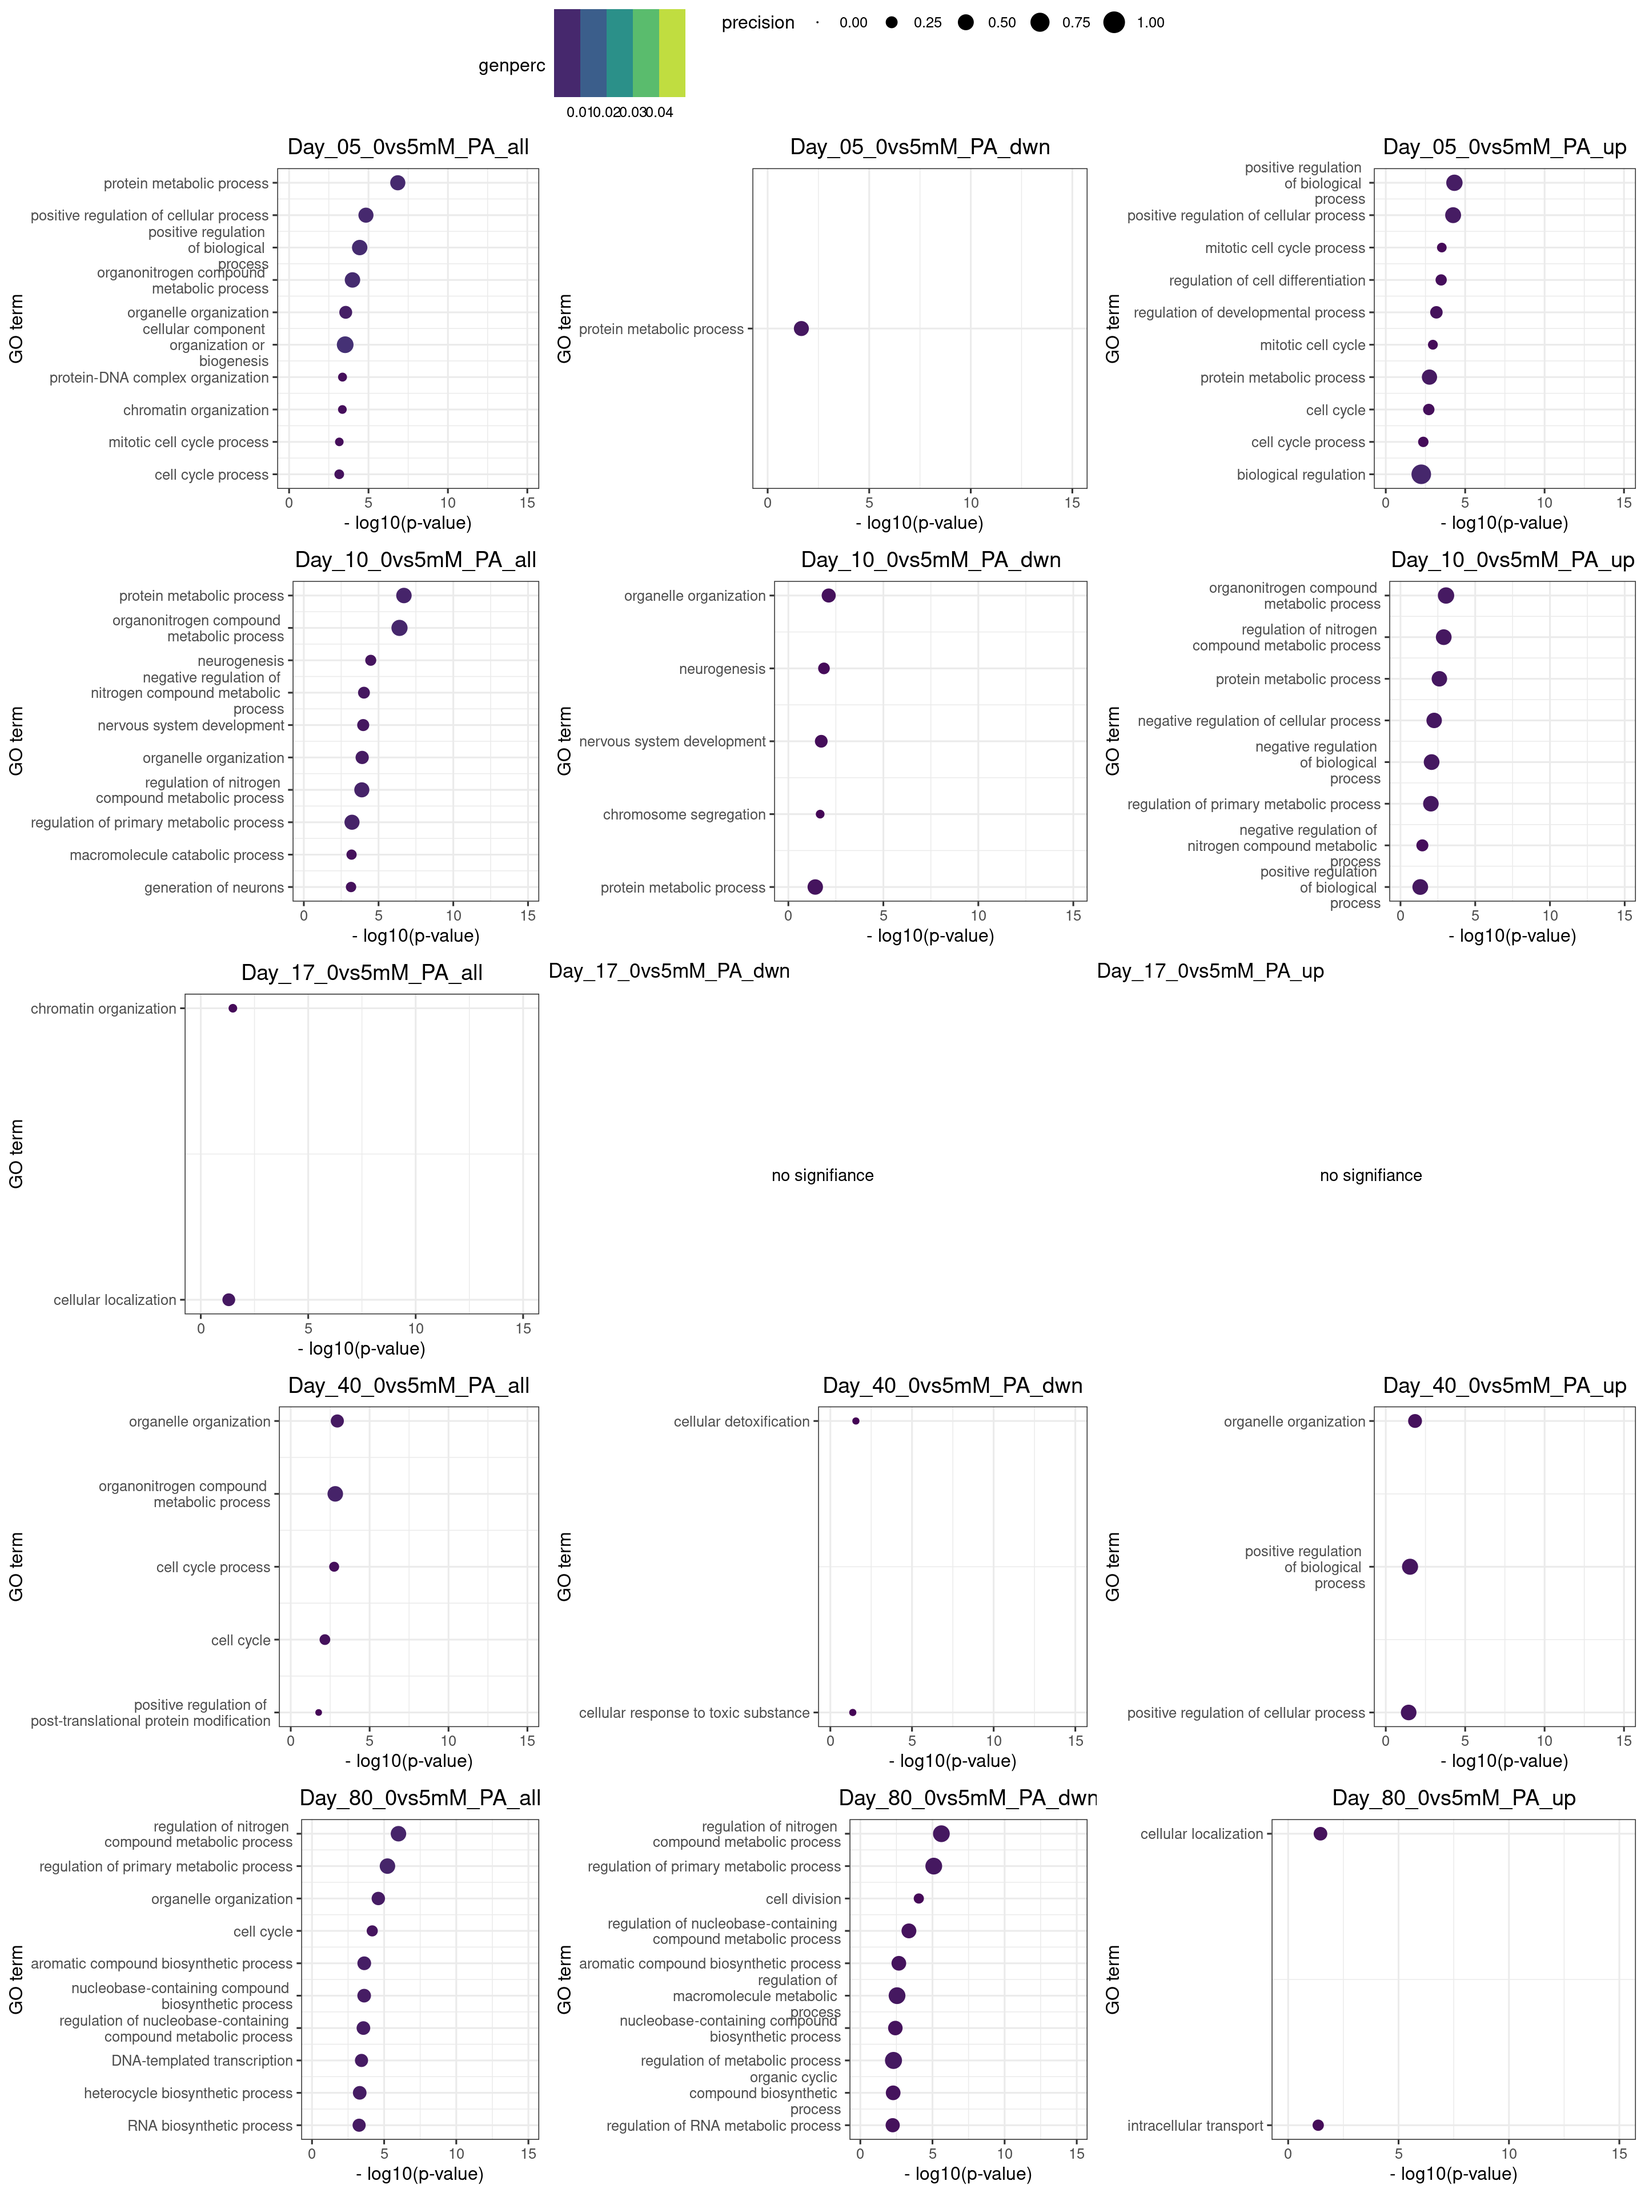
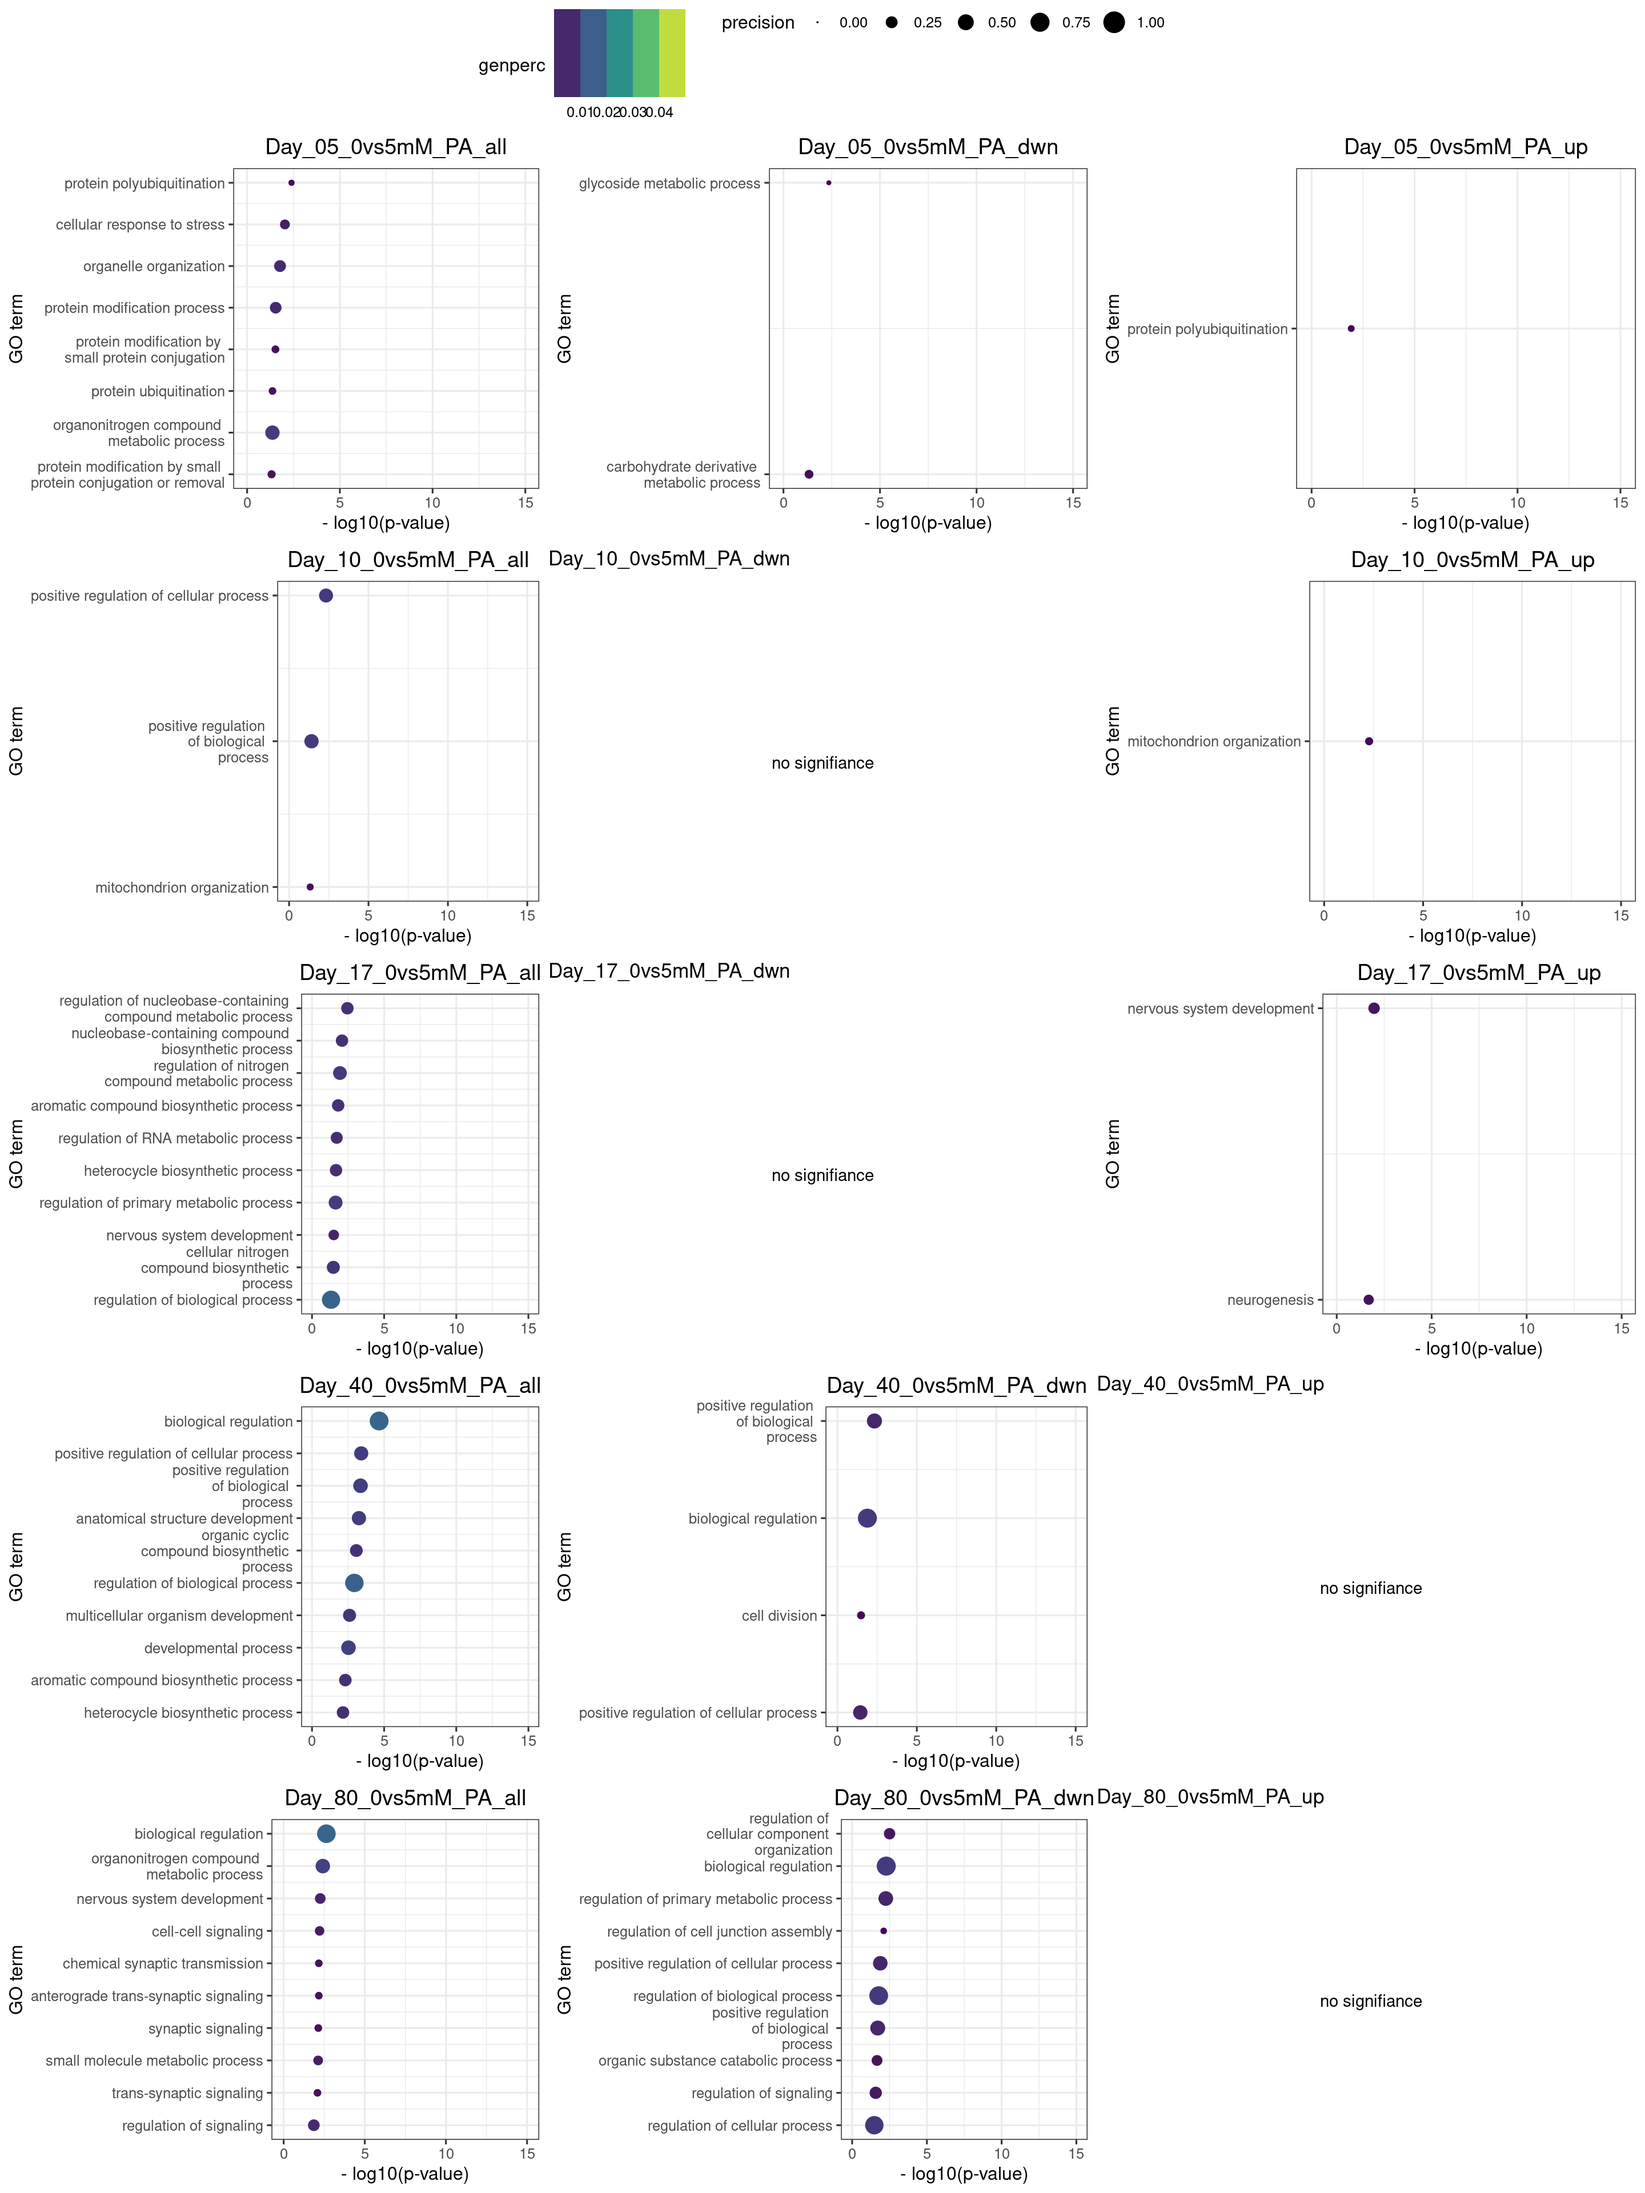
Build site.

diff --git a/docs/06_DEX_Bulk.html b/docs/06_DEX_Bulk.html
@@ -385,7 +385,7 @@ class="glyphicon glyphicon-ok text-success" aria-hidden="true"></span>
 <div class="tab-content">
 <div id="summary" class="tab-pane fade in active">
 <p>
-<strong>Last updated:</strong> 2024-01-12
+<strong>Last updated:</strong> 2024-01-13
 </p>
 <p>
 <strong>Checks:</strong> <span
@@ -516,15 +516,15 @@ project makes it easier to run your code on other machines.</p>
 <div class="panel panel-default">
 <div class="panel-heading">
 <p class="panel-title">
-<a data-toggle="collapse" data-parent="#workflowr-checks" href="#strongRepositoryversionstrongahrefhttpsgithubcomKJPMolgenLabscRNAPAQPRTtreef7ee227768eadf71185ea14617a3ddf4ca392ee0targetblankf7ee227a">
+<a data-toggle="collapse" data-parent="#workflowr-checks" href="#strongRepositoryversionstrongahrefhttpsgithubcomKJPMolgenLabscRNAPAQPRTtree5827dff088cf16cfc6208ffc470f6a60e4cb15ectargetblank5827dffa">
 <span class="glyphicon glyphicon-ok text-success"
 aria-hidden="true"></span> <strong>Repository version:</strong>
-<a href="https://github.com/KJPMolgenLab/scRNA_PA_QPRT/tree/f7ee227768eadf71185ea14617a3ddf4ca392ee0" target="_blank">f7ee227</a>
+<a href="https://github.com/KJPMolgenLab/scRNA_PA_QPRT/tree/5827dff088cf16cfc6208ffc470f6a60e4cb15ec" target="_blank">5827dff</a>
 </a>
 </p>
 </div>
 <div
[2 lines of base64/hex data omitted]
 class="panel-collapse collapse">
 <div class="panel-body">
 <p>
@@ -534,7 +534,7 @@ reproducibility.
 </p>
 <p>
 The results in this page were generated with repository version
-<a href="https://github.com/KJPMolgenLab/scRNA_PA_QPRT/tree/f7ee227768eadf71185ea14617a3ddf4ca392ee0" target="_blank">f7ee227</a>.
+<a href="https://github.com/KJPMolgenLab/scRNA_PA_QPRT/tree/5827dff088cf16cfc6208ffc470f6a60e4cb15ec" target="_blank">5827dff</a>.
 See the <em>Past versions</em> tab to see a history of the changes made
 to the R Markdown and HTML files.
 </p>
@@ -553,7 +553,6 @@ Ignored files:
     Ignored:    .Rprofile
     Ignored:    .Rproj.user/
     Ignored:    output/05_Bulk_Preprocessing/
-    Ignored:    output/07_Bulk_Deconv/
 
 Untracked files:
     Untracked:  .bashrc
@@ -569,8 +568,9 @@ Untracked files:
     Untracked:  data/QC_dataClustered.filtTyped.rds
     Untracked:  data/QC_dataClustered.filtTypedTraj.rds
     Untracked:  data/QC_dataFinal.rds
-    Untracked:  data/Yoon/
+    Untracked:  data/Sample Allocation P2023-224-LEX-LB.txt
     Untracked:  data/alldata.rds
+    Untracked:  output/07_Bulk_Deconv/
 
 Unstaged changes:
     Modified:   .gitignore
@@ -608,6 +608,9 @@ Unstaged changes:
     Modified:   output/04_Biostat/Biostat_GO_termDEG_cluster_9.xlsx
     Modified:   output/04_Biostat/Biostat_HumdevCTFreq.xslsx
     Modified:   output/04_Biostat/Biostat_clusterFreq.xslsx
+    Modified:   output/06_Bulk_DEX/06_Bulk_DEX_GO_results.xlsx
+    Modified:   output/06_Bulk_DEX/06_Bulk_DEX_LFC_results.xlsx
+    Modified:   output/06_Bulk_DEX/06_Bulk_DEX_Siggenes_boxplots.pdf
     Modified:   workflowHelper.R
 
 </code></pre>
@@ -654,6 +657,23 @@ Message
 </tr>
 </thead>
 <tbody>
+<tr>
+<td>
+html
+</td>
+<td>
+<a href="https://rawcdn.githack.com/KJPMolgenLab/scRNA_PA_QPRT/472919fe027ad08e7d833e062307a8919e6e4b29/docs/06_DEX_Bulk.html" target="_blank">472919f</a>
+</td>
+<td>
+Andreas Chiocchetti
+</td>
+<td>
+2024-01-12
+</td>
+<td>
+Build site.
+</td>
+</tr>
 <tr>
 <td>
 Rmd
@@ -989,7 +1009,8 @@ for (set in unique(resGO$result$query)){
 }
 
 p &lt;- ggpubr::ggarrange(plotlist = plotlist, common.legend = T, nrow = 5, ncol =3)</code></pre>
-<pre><code>Warning: Removed 1 rows containing missing values (`geom_point()`).</code></pre>
+<pre><code>Warning: Removed 6 rows containing missing values (`geom_point()`).</code></pre>
+<pre><code>Warning: Removed 2 rows containing missing values (`geom_point()`).</code></pre>
 <pre class="r"><code>p</code></pre>
 <p><img src="figure/06_DEX_Bulk.Rmd/unnamed-chunk-4-1.png" width="1440" style="display: block; margin: auto;" /></p>
 <p>
@@ -1097,8 +1118,10 @@ for (set in unique(resGO$result$query)){
   }
 }
 
-p &lt;- ggpubr::ggarrange(plotlist = plotlist, common.legend = T, nrow = 5, ncol =3)
-p</code></pre>
+p &lt;- ggpubr::ggarrange(plotlist = plotlist, common.legend = T, nrow = 5, ncol =3)</code></pre>
+<pre><code>Warning: Removed 6 rows containing missing values (`geom_point()`).</code></pre>
+<pre><code>Warning: Removed 2 rows containing missing values (`geom_point()`).</code></pre>
+<pre class="r"><code>p</code></pre>
 <p><img src="figure/06_DEX_Bulk.Rmd/unnamed-chunk-6-1.png" width="1440" style="display: block; margin: auto;" /></p>
 <p>
 <button type="button" class="btn btn-default btn-xs btn-workflowr btn-workflowr-fig" data-toggle="collapse" data-target="#fig-unnamed-chunk-6-1">
